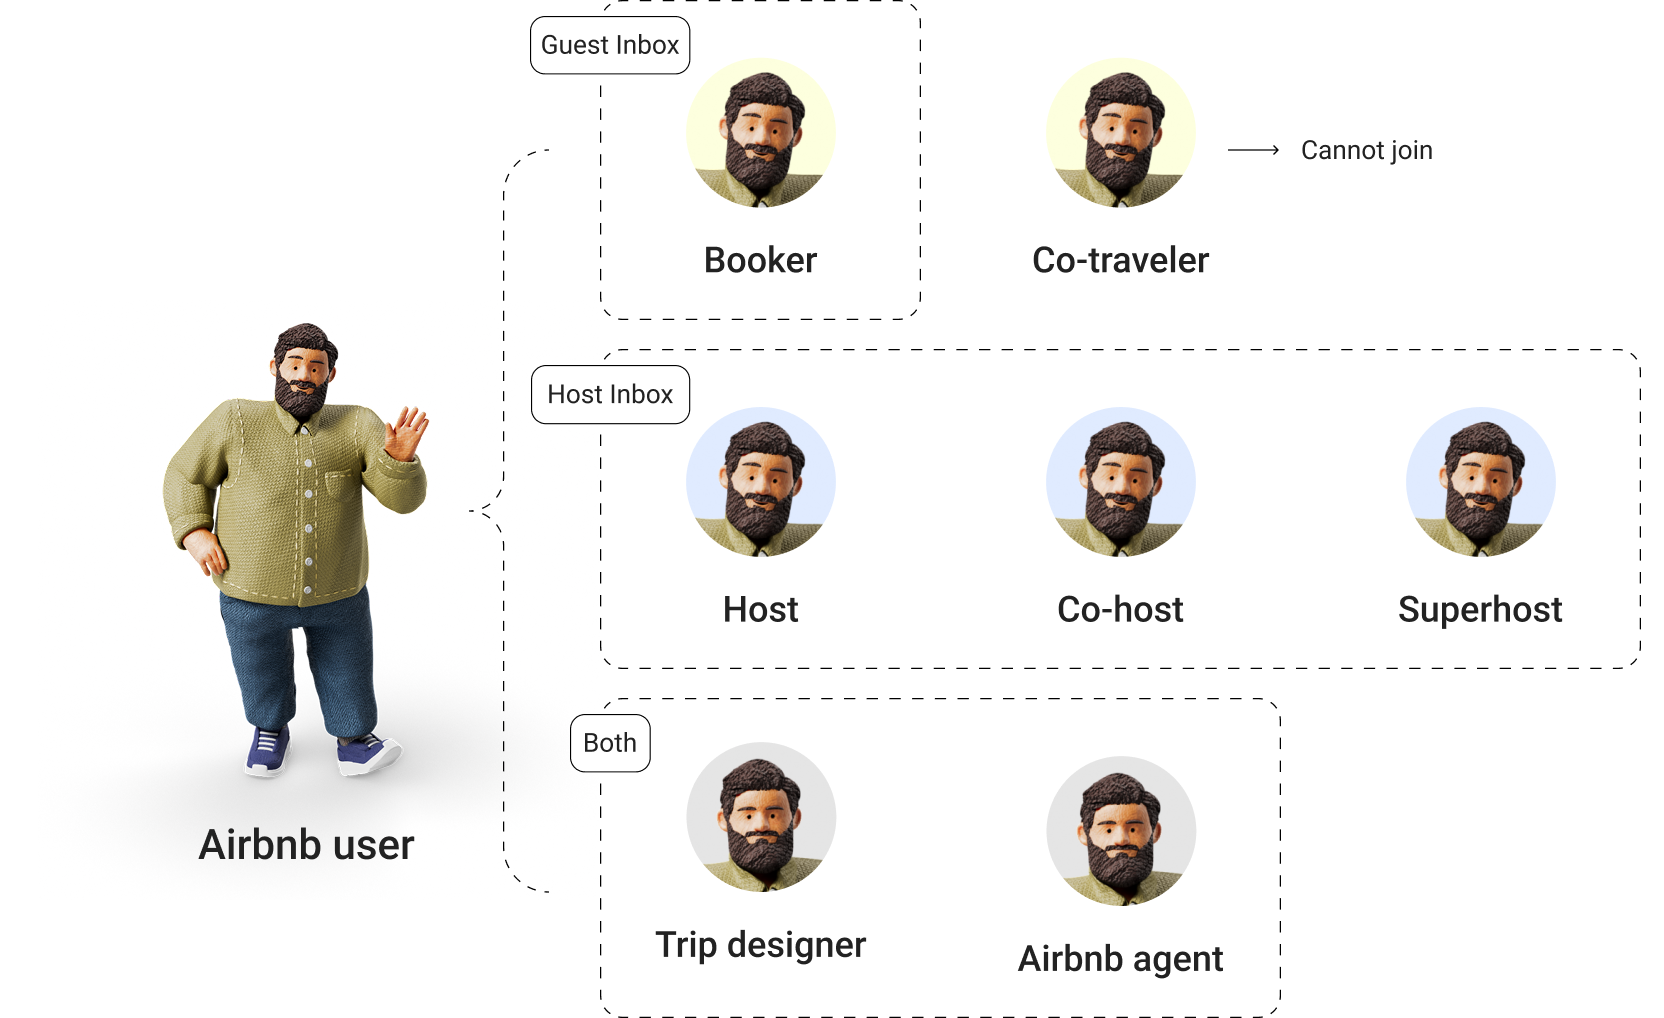
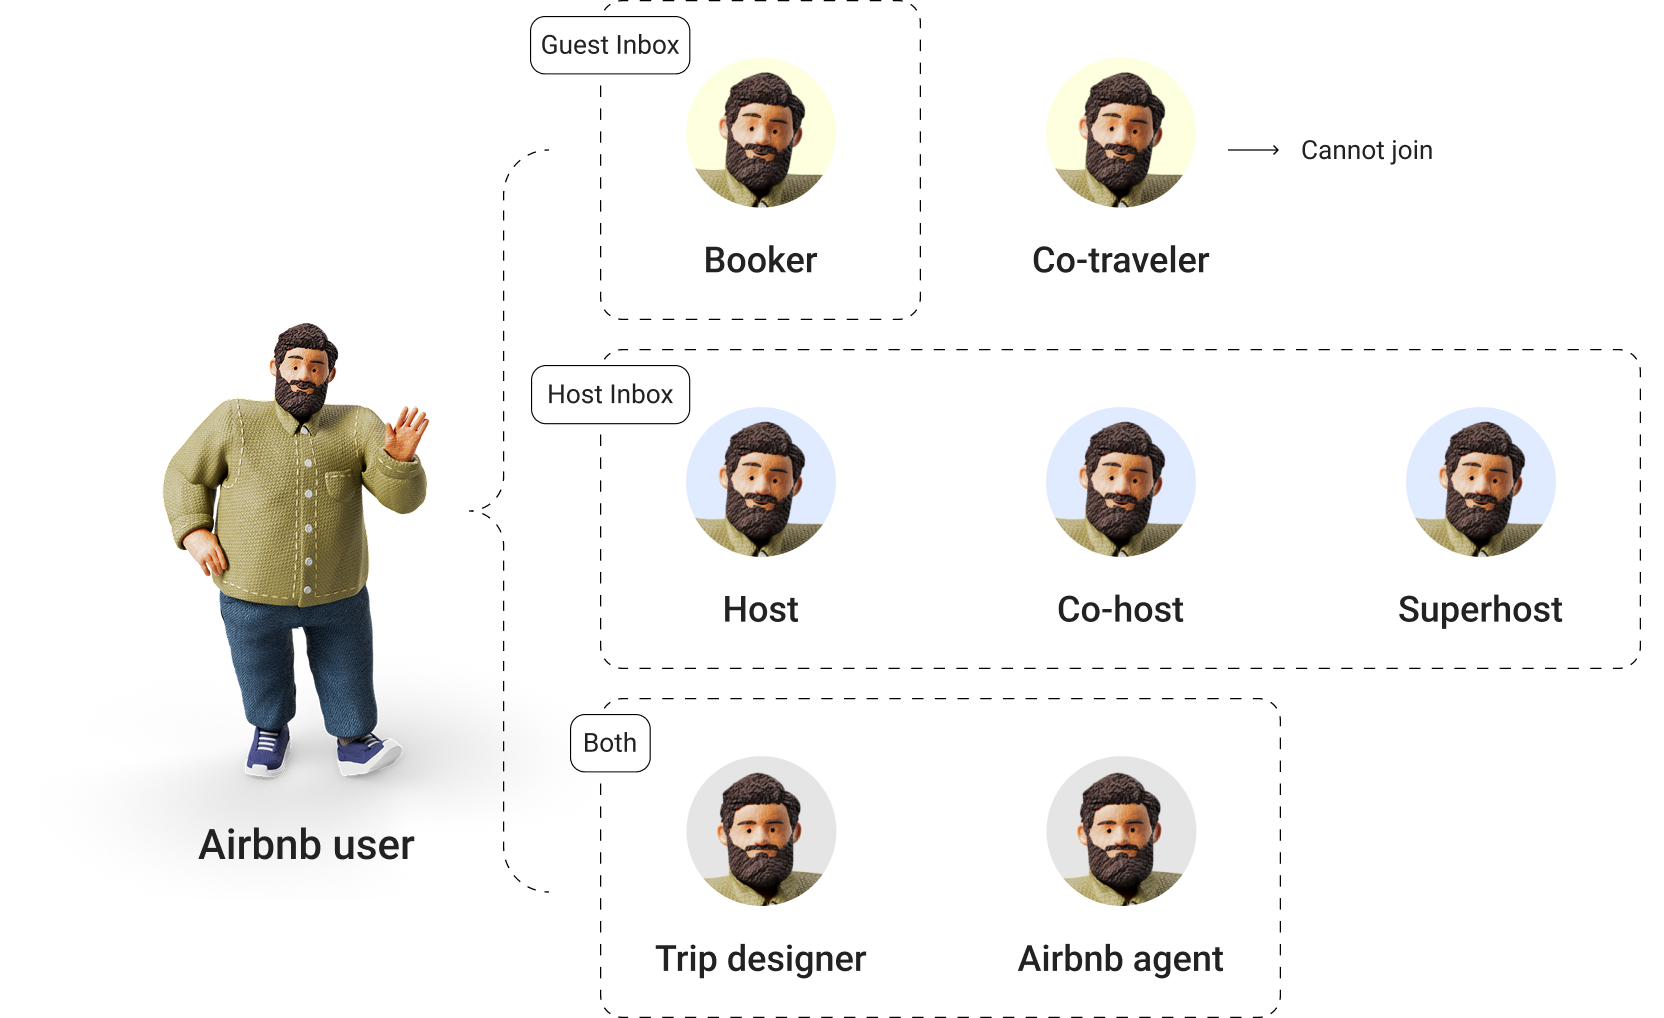
Aug 6 updated

Changed region(s): [[0.375, 0.7308, 0.5312, 0.9745]]

diff --git a/work/airbnb-messaging.html b/work/airbnb-messaging.html
@@ -228,10 +228,7 @@
         <div class="am-wrap">
             <div class="am-part-intro">
                 <span class="am-eyebrow">/ Design Goal</span>
-                <h2 class="am-section-title">Building the new Airbnb Messaging</h2>
-                <p class="am-subhead" style="max-width: 700px;">
-                Three goals shaped what we built and how we built it.
-                </p>
+                <h2 class="am-section-title">What we built and how we built it</h2>
             </div>
 
             <div class="am-grid-3 am-grid-3--icon-row" style="margin-top: 80px;">
@@ -271,7 +268,7 @@
                 <span class="am-eyebrow">/ Part 1 — Inbox</span>
                 <h2 class="am-section-title">The old Inbox was never one system</h2>
                 <p class="am-subhead" style="max-width: 640px;">
-                    Two separate products, a navigation that only grew messier, and cards that shared no rules.
+                    Two separate products, a navigation that only grew messier, and components that shared no rules.
                     Every piece had been built on its own, and it showed.
                 </p>
             </div>
@@ -302,7 +299,7 @@
                 <div class="am-grid-3__item">
                     <img src="../assets/images/messaging/Inbox5.png" alt="Composer — quick actions">
                     <h3>Cards with no shared rules</h3>
-                    <p>Thread cards spanned different businesses and scenarios, yet followed no shared standard.</p>
+                    <p>Thread cards spanned different businesses and scenarios, yet followed no shared rules.</p>
                 </div>
             </div>
         </div>
@@ -325,43 +322,175 @@
         </div>
     </section>
 
+      <!-- Caterpillar navigation -->
+    <section class="am-section--tint">
+        <div class="am-wrap">
+            <div class="am-part-intro">
+                <h2 class="am-section-title">The caterpillar navigation</h2>
+                <p class="am-subhead" style="max-width: 700px;">
+                    One navigation, unified for every role and scalable for every business. At each level, it shows only what a person came for and folds the rest away, so the more it scales to hold, the lighter it stays to use.
+                </p>
+            </div>
+            <div class="am-part-intro" style="margin-top: 40px;">
+            <img src="../assets/images/messaging/navoverview.png" style="max-width: 700px;">
+            </div>
+        </div>
+    </section>
+
     <!-- Inbox structure -->
      <section class="am-section--tint">
         <div class="am-wrap">
-            <h2 class="am-section-title">Rebuild the structure for the unified Inbox</h2>
+            <h2 class="am-section-title">Rebuild the structure behind a unified Inbox</h2>
             <p class="am-subhead" style="max-width: 700px;">
                 We remapped the Inbox around one shared structure, so every
                 role and business could live in the same place instead of each carving out its own.
             </p>
-            <img src="../assets/images/messaging/map.png" >
+            <img src="../assets/images/messaging/map.png" style="margin-top: 80px;">
+        </div>
+    </section>
+
+    <section class="am-section--tint">
+        <div class="am-wrap">
+            <div class="am-grid-2 am-grid-2--40-60">
+                <div class="am-grid-2__text">
+                    <h2 class="am-section-title">The first level nav built around purpose</h2>
+                    <div class="am-body">
+                        <p>
+                            Before showing anything, the navigation asks one question: what did this person open the Inbox to do? Every choice below follows from the answer.
+                        </p>
+                    </div>
+                </div>
+                <div class="am-grid-2__art">
+                    <div>
+                        <!-- PLACEHOLDER: old plain-text thread vs a richer, social one -->
+                        <img width="100%" src="../assets/images/messaging/nav1.png">
+                    </div>
+                </div>
+            </div>
+        </div>
+    </section>
+
+        <section class="am-section--tint">
+        <div class="am-wrap">
+            <div class="am-grid-2 am-grid-2--40-60">
+                <div class="am-grid-2__text">
+                    <h2 class="am-section-title">Surfacing the three businesses for multi-role hosts</h2>
+                    <div class="am-body">
+                        <p>
+                            Traveling is manageable: nearly half of travelers have < 5 reservations in a single trip. Hosting is not: most hosts run many reservations at once, often across homes, experiences, and services. So for a host wearing several hats, we split "Hosting" to give each business the visibility it needs, and to make them easier to manage side by side.
+                        </p>
+                    </div>
+                </div>
+                <div class="am-grid-2__art">
+                    <div>
+                        <!-- PLACEHOLDER: old plain-text thread vs a richer, social one -->
+                        <img width="100%" src="../assets/images/messaging/nav2.png">
+                    </div>
+                </div>
+            </div>
+        </div>
+    </section>
+
+           <section class="am-section--tint">
+        <div class="am-wrap">
+            <div class="am-grid-2 am-grid-2--40-60">
+                <div class="am-grid-2__text">
+                    <h2 class="am-section-title">Folding filters into the 2nd level nav</h2>
+                    <div class="am-body">
+                        <p>
+                            By the second level, we already know why a user is here, so navigation and filtering merge into one contextual layer, shaped by that purpose. For instance, a host cares about where a trip stands and whether a thread is unread or starred, so the navigation adapts to exactly what each role needs to see.
+                        </p>
+                    </div>
+                </div>
+                <div class="am-grid-2__art">
+                    <div>
+                        <!-- PLACEHOLDER: old plain-text thread vs a richer, social one -->
+                        <img width="100%" src="../assets/images/messaging/nav3.png">
+                    </div>
+                </div>
+            </div>
+        </div>
+    </section>
+
+    <section class="am-section--tint">
+        <div class="am-wrap">
+            <div class="am-grid-2 am-grid-2--40-60">
+                <div class="am-grid-2__text">
+                    <h2 class="am-section-title">Adaptive navigation on desktop</h2>
+                    <div class="am-body">
+                        <p>
+                            Desktop doesn't scroll horizontally with ease, so the navigation folds back into a dropdown. Context-specific filters appear once a purpose is selected, and with less space here, only the essentials stay visible while the rest collapse into one.
+                        </p>
+                    </div>
+                </div>
+                <div class="am-grid-2__art">
+                    <div>
+                        <!-- PLACEHOLDER: old plain-text thread vs a richer, social one -->
+                        <img width="100%" src="../assets/images/messaging/nav4.png">
+                    </div>
+                </div>
+            </div>
         </div>
     </section>
   
-    <!-- Caterpillar navigation -->
+    <!-- Inbox card -->
     <section class="am-section--tint">
         <div class="am-wrap">
-            <h2 class="am-section-title">The caterpillar navigation</h2>
-            <p class="am-subhead" style="max-width: 800px;">
-                A progressive filter that grows with a person's complexity rather than Airbnb's. Tabs break
-                down past five items, and search asks people to know what they want before they look. This
-                sits between the two: collapsed for the guest with a single trip, and unfolding only for the
-                host who is juggling many.
-            </p>
-            <img src="../assets/images/messaging/nav.png" style="max-width: 800px;">
+            <div class="am-part-intro">
+                <h2 class="am-section-title">The Inbox card</h2>
+                <p class="am-subhead" style="max-width: 700px;">
+                    A single card structure carries every business Airbnb runs, and it knows which detail matters most in each.
+                </p>
+            </div>
+            <div class="am-part-intro" style="margin-top: 40px;">
+            <img src="../assets/images/messaging/cardoverview.png" style="max-width: 700px;">
+            </div>
         </div>
     </section>
-    <!-- Rich media -->
+
+    <!-- Inboxcard structure -->
     <section class="am-section--tint">
         <div class="am-wrap">
-            <h2 class="am-section-title">An Inbox card for every business</h2>
-            <p class="am-subhead" style="max-width: 800px;">
-                A single card structure carries every business Airbnb runs, and it knows which detail matters
-                most in each. One anatomy, tuned to its context, so a Home, an Experience, and a Support
-                case each lead with exactly what a person needs to see.
-            </p>
-            <img src="../assets/images/messaging/inboxcard.png" style="max-width: 800px;">
+            <div class="am-grid-2 am-grid-2--40-60">
+                <div class="am-grid-2__text">
+                    <h2 class="am-section-title">Anatomy of the Inbox card</h2>
+                    <div class="am-body">
+                        <p>
+                            One structure underlies every card in the Inbox: the same parts, in the same places, whatever the business. What changes is never the skeleton, only what fills it, and always the detail that matters most.
+                            </p>
+                    </div>
+                </div>
+                <div class="am-grid-2__art">
+                    <div>
+                        <!-- PLACEHOLDER: old plain-text thread vs a richer, social one -->
+                        <img width="100%" src="../assets/images/messaging/inboxcard.png">
+                    </div>
+                </div>
+            </div>
         </div>
     </section>
+
+        <section class="am-section--tint">
+        <div class="am-wrap">
+            <div class="am-grid-2 am-grid-2--40-60">
+                <div class="am-grid-2__text">
+                    <h2 class="am-section-title">One structure, filled by need</h2>
+                    <div class="am-body">
+                        <p>
+                            For instance, a guest rarely needs the listing's name; a photo and a city are enough to place the trip. A host is the opposite: with several similar listings in one city, only the name tells them apart. So the same slot shows the city for a guest and the listing name for a host.
+                        </p>
+                    </div>
+                </div>
+                <div class="am-grid-2__art">
+                    <div>
+                        <!-- PLACEHOLDER: old plain-text thread vs a richer, social one -->
+                        <img width="100%" src="../assets/images/messaging/inboxcard1.png">
+                    </div>
+                </div>
+            </div>
+        </div>
+    </section>
+
 
 
     <!-- ============================================================
@@ -372,7 +501,7 @@
             <div class="am-part-intro">
                 <span class="am-eyebrow">/ Part 2 — Thread</span>
                 <h2 class="am-section-title">Where the conversation happens</h2>
-                <p class="am-subhead" style="max-width: 640px;">
+                <p class="am-subhead" style="max-width: 700px;">
                     Inside a thread, a plain message list becomes a surface that adapts to who is talking,
                     expands to whatever needs saying, and carries the actions that move a trip forward.
                 </p>
